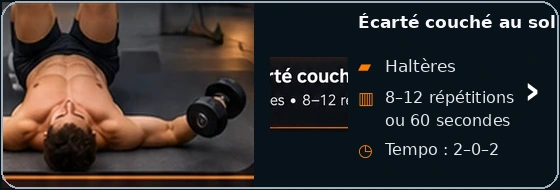
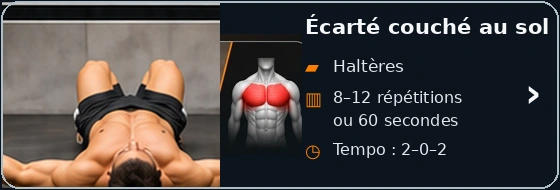
Add files via upload

diff --git a/sw.js b/sw.js
@@ -1,5 +1,5 @@
 const CACHE="ma-bibliotheque-v74";
-const ASSETS=["./","./index.html","./styles.css","./app.js","./data.json","./manifest.json","./icon-192.png","./icon-512.png","./cat-cakes-desserts.webp","./cat-cakes-sales-terrines.webp","./cat-pancakes-gaufres.webp","./cat-pains-pizzas-bruschettas.webp","./cat-quiches-tartes.webp","./cat-pates-a-tartiner.webp","./cat-plats-sales.webp","./cat-recettes-mer.webp","./cat-pates.webp","./cat-salades.webp","./cat-soupes.webp","./cat-mijoteuse.webp","./univers-musculation.webp","./muscu-menu-exercices.png","./muscu-menu-seances.png","./muscu-menu-autre-sport.png","./muscu-menu-historique.png","./exercice-groupe-pectoraux.webp","./exercice-groupe-dos.webp","./exercice-groupe-epaules.webp","./exercice-groupe-biceps.webp","./exercice-groupe-triceps.webp","./exercice-groupe-jambes.webp","./exercice-groupe-abdominaux.webp","./biceps-curl-marteau.webp","./pectoraux-pompes-classiques.webp","./biceps-curl-classique.webp","./biceps-curl-alterne.webp","./biceps-curl-concentration.webp","./biceps-curl-zottman.webp","./biceps-curl-prise-inversee.webp","./biceps-curl-assis.webp","./biceps-curl-unilateral.webp","./biceps-curl-isometrique.webp","./biceps-curl-kettlebell.webp","./seance-haut-corps-v2.png","./seance-bas-corps-v2.png","./seance-corps-complet-v2.png","./seance-abdos-gainage-v2.png","./sport-marche-v3.png","./sport-course-v3.png","./sport-velo-v3.png","./sport-velo-appartement-v3.png","./sport-paddle-v3.png","./recette-r014-gaufres-ig-bas-proteinees.png","./recette-r017-pancakes-proteines-ig-bas.png","./recette-r001-appareil-a-quiche-proteine-ig-bas.png","./recette-r013-gaufres-au-thon.png","./recette-r021-quiche-proteinee-legumes-sans-pate.png","./recette-r022-quiche-proteinee-legumes-thon-sans-pate.png","./recette-r023-quiche-proteinee-poulet-epinards-skyr-sans-pate.png","./recette-r029-pate-brisee-farine-pois-chiches.png","./recette-r031-pancakes-courgettes-parmesan.png","./recette-r019-choco-noisette-saine.png","./recette-r020-choco-noisette-ig-bas.png","./recette-r035-pate-amandes.png","./recette-r036-pate-cacahuetes.png","./recette-r058-veloute-pois-chiches-courgette-poireau-cumin.webp","./recette-r101-salade-poulet-avocat-oeufs.webp","./recette-r102-salade-pommes-terre-thon-oeufs.webp","./recette-r103-salade-cabillaud-avocat-oeufs.webp","./recette-r104-salade-poulet-croustillant.webp","./recette-r105-salade-mediterraneenne-pois-chiches.webp","./recette-r106-salade-pates-poulet-mozzarella.webp","./recette-r107-salade-crevettes-avocat-mangue.webp","./recette-r108-salade-quinoa-legumes-rotis-pois-chiches.webp","./recette-r109-salade-boeuf-grille-avocat.webp","./recette-r110-salade-riz-basmati-thon-oeufs.webp","./recette-r089-lasagnes-volaille-legumes.webp","./recette-r090-lasagnes-blanches-volaille-legumes.webp","./recette-r126-pates-poulet-courgettes-tomates.webp","./recette-r127-pates-pesto-tomates-parmesan.webp","./recette-r128-pates-cremeuses-poulet-champignons-epinards.webp","./recette-r129-pates-poulet-epinards-tomates.webp","./recette-r130-pates-thon-courgette-poivron-olives.webp","./recette-r131-pates-brocoli-burrata-tomates.webp","./recette-r132-pates-lentilles-corail-basilic.webp","./recette-r133-pates-lentilles-corail-tomates-confites-basilic.webp","./recette-r071-bowl-calamars-romaine.webp","./recette-r072-tacos-calamars-romaine.webp","./recette-r073-calamars-orge-legumes-rotis.webp","./recette-r074-risotto-mer-citron-safran-calamars.webp","./recette-r078-crevettes-courgettes-quinoa.webp","./recette-r079-crevettes-pois-chiches-legumes.webp","./recette-r002-cake-chocolat-poire-pepites.png","./recette-r005-cake-marbre-proteine-avoine-amande-lupin.png","./recette-r007-cake-proteine-myrtilles-chocolat.png","./recette-r011-flan-proteine-myrtille-citron.png","./recette-r030-gateau-fromage-blanc.png","./recette-r037-clafoutis-leger-pommes.png","./recette-r075-cake-proteine-ananas-coco-vanille.png","./recette-r076-tiramisu-proteine-cafe-chia.png","./recette-r077-tiramisu-proteine-poire-chocolat-chia.png","./recette-r091-cake-proteine-banane-chocolat.png","./recette-r092-cake-proteine-pomme-cannelle.png","./recette-r093-cake-proteine-banane-coco.png","./recette-r094-cake-proteine-chocolat-compote.png","./recette-r095-cake-proteine-poire-amande.png","./recette-r096-cake-proteine-carotte-cannelle-noix.png","./recette-r097-cake-proteine-banane-fruits-rouges.png","./recette-r098-cake-proteine-pomme-coco.png","./recette-r099-cake-proteine-citron-amande.png","./recette-r100-cake-proteine-banane-cacao-noisette.png","./recette-r003-cake-courgette-poivron-feta.png","./recette-r004-cake-jambon-epinards-chevre.png","./recette-r006-cake-poulet-courgette-parmesan.png","./recette-r008-cake-legumes-du-soleil.png","./recette-r009-cake-thon-courgette-skyr-sans-farine.png","./recette-r010-cake-thon-tomate-olives.png","./recette-r024-terrine-legumes-ete.png","./recette-r025-terrine-fraiche-thon-courgette.png","./recette-r038-cake-epinards-feta.png","./recette-r039-cake-poulet-curry.png","./recette-r040-cake-poivron-mozzarella.png","./recette-r041-cake-champignons-comte.png","./recette-r042-cake-carotte-chevre.png","./recette-r043-cake-thon-olives.png","./recette-r080-flan-courgettes-parmesan-skyr.png","./recette-r081-terrine-poulet-legumes.png","./recette-r082-clafoutis-tomates-courgettes-fromage.png","./recette-r083-terrine-champignons-poireaux-emmental.png","./recette-r084-gateau-pommes-terre-courgettes-chevre.png","./recette-r085-gateau-pommes-terre-chou-fleur-chevre.png","./recette-r026-wok-poulet-pousses-soja.png","./recette-r059-poulet-pommes-terre-brocoli.png","./recette-r060-saumon-riz-legumes.png","./recette-r061-poulet-cremeux-champignons-pates.png","./recette-r062-boeuf-pommes-terre-carottes-mijotes.png","./recette-r063-saucisses-pommes-terre-poivrons.png","./recette-r064-poulet-riz-legumes.png","./recette-r065-crevettes-riz-brocoli.png","./recette-r066-poulet-tex-mex-haricots-mais.png","./recette-r067-gnocchis-poulet-tomates.png","./recette-r068-boulettes-boeuf-orzo-tomates.png","./recette-r069-poulet-citron-orzo-epinards.png","./recette-r070-boeuf-cremeux-champignons-pates.png","./recette-r112-boeuf-bourguignon-mijoteuse-v2.png","./recette-r113-poulet-cremeux-ail-v2.png","./recette-r114-porc-effiloche-sauce-barbecue-v2.png","./recette-r115-ragout-boeuf-legumes-pommes-terre-v2.png","./recette-r116-boulettes-boeuf-sauce-tomate-v2.png","./recette-r117-poulet-champignons-creme-v2.png","./recette-r118-boeuf-oignons-sauce-brune-v2.png","./recette-r119-poulet-citron-herbes-v2.png","./recette-r120-porc-champignons-oignons-v2.png","./recette-r121-chili-boeuf-haricots-blancs-v2.png","./recette-r122-poulet-cremeux-pommes-terre-v3.png","./recette-r123-boeuf-mijote-thym-v2.png","./recette-r124-poulet-barbecue-miel-v3.png","./recette-r125-roti-porc-pommes-terre-v3.png","./recette-r012-fougasse-petit-epeautre-v2.png","./recette-r015-pain-complet-ig-bas-v2.png","./recette-r016-pain-pomme-terre-skyr-v2.png","./recette-r018-pate-pizza-ig-bas-v2.png","./recette-r027-pain-sarrasin-pois-chiches-graines-v2.png","./recette-r028-pain-sarrasin-v2.png","./recette-r032-pizza-express-proteinee-v2.png","./recette-r033-petits-pains-pois-chiches-v2.png","./recette-r034-pain-lentilles-corail-v2.png","./recette-r044-bruschetta-tomate-basilic-v2.png","./recette-r045-bruschetta-mozzarella-tomates-cerises.png","./recette-r046-bruschetta-jambon-cru-roquette.png","./recette-r047-bruschetta-ricotta-miel.png","./recette-r048-bruschetta-champignons-ail.png","./recette-r049-bruschetta-poivron-roti.png","./recette-r050-bruschetta-saumon-fromage-frais.png","./recette-r051-bruschetta-avocat-citron-vert.png","./recette-r052-bruschetta-thon-olives.png","./recette-r053-bruschetta-chevre-figues.png","./recette-r054-bruschetta-pesto-tomates-sechees.png","./recette-r055-bruschetta-burrata-pesto.png","./recette-r056-bruschetta-poulet-tomates-sechees.png","./recette-r057-bruschetta-crevettes-avocat.png","./recette-r086-pain-lentilles-corail.png","./recette-r087-pain-lentilles-avoine-lupin.png","./recette-r088-pain-nordique-graines.png","./recette-r111-pain-100-sarrasin.png"];
+const ASSETS=["./","./index.html","./styles.css","./app.js","./data.json","./manifest.json","./icon-192.png","./icon-512.png","./cat-cakes-desserts.webp","./cat-cakes-sales-terrines.webp","./cat-pancakes-gaufres.webp","./cat-pains-pizzas-bruschettas.webp","./cat-quiches-tartes.webp","./cat-pates-a-tartiner.webp","./cat-plats-sales.webp","./cat-recettes-mer.webp","./cat-pates.webp","./cat-salades.webp","./cat-soupes.webp","./cat-mijoteuse.webp","./univers-musculation.webp","./muscu-menu-exercices.png","./muscu-menu-seances.png","./muscu-menu-autre-sport.png","./muscu-menu-historique.png","./exercice-groupe-pectoraux.webp","./exercice-groupe-dos.webp","./exercice-groupe-epaules.webp","./exercice-groupe-biceps.webp","./exercice-groupe-triceps.webp","./exercice-groupe-jambes.webp","./exercice-groupe-abdominaux.webp","./biceps-curl-marteau.webp","./pectoraux-squeeze-press-halteres.webp","./pectoraux-pompes-tempo-lent.webp","./pectoraux-pompes-prise-large.webp","./pectoraux-presse-unilaterale-sol.webp","./pectoraux-pullover-haltere.webp","./pectoraux-ecarte-sol-halteres.webp","./pectoraux-developpe-sol-halteres.webp","./pectoraux-pompes-declinees.webp","./pectoraux-pompes-inclinees.webp","./pectoraux-pompes-classiques.webp","./biceps-curl-classique.webp","./biceps-curl-alterne.webp","./biceps-curl-concentration.webp","./biceps-curl-zottman.webp","./biceps-curl-prise-inversee.webp","./biceps-curl-assis.webp","./biceps-curl-unilateral.webp","./biceps-curl-isometrique.webp","./biceps-curl-kettlebell.webp","./seance-haut-corps-v2.png","./seance-bas-corps-v2.png","./seance-corps-complet-v2.png","./seance-abdos-gainage-v2.png","./sport-marche-v3.png","./sport-course-v3.png","./sport-velo-v3.png","./sport-velo-appartement-v3.png","./sport-paddle-v3.png","./recette-r014-gaufres-ig-bas-proteinees.png","./recette-r017-pancakes-proteines-ig-bas.png","./recette-r001-appareil-a-quiche-proteine-ig-bas.png","./recette-r013-gaufres-au-thon.png","./recette-r021-quiche-proteinee-legumes-sans-pate.png","./recette-r022-quiche-proteinee-legumes-thon-sans-pate.png","./recette-r023-quiche-proteinee-poulet-epinards-skyr-sans-pate.png","./recette-r029-pate-brisee-farine-pois-chiches.png","./recette-r031-pancakes-courgettes-parmesan.png","./recette-r019-choco-noisette-saine.png","./recette-r020-choco-noisette-ig-bas.png","./recette-r035-pate-amandes.png","./recette-r036-pate-cacahuetes.png","./recette-r058-veloute-pois-chiches-courgette-poireau-cumin.webp","./recette-r101-salade-poulet-avocat-oeufs.webp","./recette-r102-salade-pommes-terre-thon-oeufs.webp","./recette-r103-salade-cabillaud-avocat-oeufs.webp","./recette-r104-salade-poulet-croustillant.webp","./recette-r105-salade-mediterraneenne-pois-chiches.webp","./recette-r106-salade-pates-poulet-mozzarella.webp","./recette-r107-salade-crevettes-avocat-mangue.webp","./recette-r108-salade-quinoa-legumes-rotis-pois-chiches.webp","./recette-r109-salade-boeuf-grille-avocat.webp","./recette-r110-salade-riz-basmati-thon-oeufs.webp","./recette-r089-lasagnes-volaille-legumes.webp","./recette-r090-lasagnes-blanches-volaille-legumes.webp","./recette-r126-pates-poulet-courgettes-tomates.webp","./recette-r127-pates-pesto-tomates-parmesan.webp","./recette-r128-pates-cremeuses-poulet-champignons-epinards.webp","./recette-r129-pates-poulet-epinards-tomates.webp","./recette-r130-pates-thon-courgette-poivron-olives.webp","./recette-r131-pates-brocoli-burrata-tomates.webp","./recette-r132-pates-lentilles-corail-basilic.webp","./recette-r133-pates-lentilles-corail-tomates-confites-basilic.webp","./recette-r071-bowl-calamars-romaine.webp","./recette-r072-tacos-calamars-romaine.webp","./recette-r073-calamars-orge-legumes-rotis.webp","./recette-r074-risotto-mer-citron-safran-calamars.webp","./recette-r078-crevettes-courgettes-quinoa.webp","./recette-r079-crevettes-pois-chiches-legumes.webp","./recette-r002-cake-chocolat-poire-pepites.png","./recette-r005-cake-marbre-proteine-avoine-amande-lupin.png","./recette-r007-cake-proteine-myrtilles-chocolat.png","./recette-r011-flan-proteine-myrtille-citron.png","./recette-r030-gateau-fromage-blanc.png","./recette-r037-clafoutis-leger-pommes.png","./recette-r075-cake-proteine-ananas-coco-vanille.png","./recette-r076-tiramisu-proteine-cafe-chia.png","./recette-r077-tiramisu-proteine-poire-chocolat-chia.png","./recette-r091-cake-proteine-banane-chocolat.png","./recette-r092-cake-proteine-pomme-cannelle.png","./recette-r093-cake-proteine-banane-coco.png","./recette-r094-cake-proteine-chocolat-compote.png","./recette-r095-cake-proteine-poire-amande.png","./recette-r096-cake-proteine-carotte-cannelle-noix.png","./recette-r097-cake-proteine-banane-fruits-rouges.png","./recette-r098-cake-proteine-pomme-coco.png","./recette-r099-cake-proteine-citron-amande.png","./recette-r100-cake-proteine-banane-cacao-noisette.png","./recette-r003-cake-courgette-poivron-feta.png","./recette-r004-cake-jambon-epinards-chevre.png","./recette-r006-cake-poulet-courgette-parmesan.png","./recette-r008-cake-legumes-du-soleil.png","./recette-r009-cake-thon-courgette-skyr-sans-farine.png","./recette-r010-cake-thon-tomate-olives.png","./recette-r024-terrine-legumes-ete.png","./recette-r025-terrine-fraiche-thon-courgette.png","./recette-r038-cake-epinards-feta.png","./recette-r039-cake-poulet-curry.png","./recette-r040-cake-poivron-mozzarella.png","./recette-r041-cake-champignons-comte.png","./recette-r042-cake-carotte-chevre.png","./recette-r043-cake-thon-olives.png","./recette-r080-flan-courgettes-parmesan-skyr.png","./recette-r081-terrine-poulet-legumes.png","./recette-r082-clafoutis-tomates-courgettes-fromage.png","./recette-r083-terrine-champignons-poireaux-emmental.png","./recette-r084-gateau-pommes-terre-courgettes-chevre.png","./recette-r085-gateau-pommes-terre-chou-fleur-chevre.png","./recette-r026-wok-poulet-pousses-soja.png","./recette-r059-poulet-pommes-terre-brocoli.png","./recette-r060-saumon-riz-legumes.png","./recette-r061-poulet-cremeux-champignons-pates.png","./recette-r062-boeuf-pommes-terre-carottes-mijotes.png","./recette-r063-saucisses-pommes-terre-poivrons.png","./recette-r064-poulet-riz-legumes.png","./recette-r065-crevettes-riz-brocoli.png","./recette-r066-poulet-tex-mex-haricots-mais.png","./recette-r067-gnocchis-poulet-tomates.png","./recette-r068-boulettes-boeuf-orzo-tomates.png","./recette-r069-poulet-citron-orzo-epinards.png","./recette-r070-boeuf-cremeux-champignons-pates.png","./recette-r112-boeuf-bourguignon-mijoteuse-v2.png","./recette-r113-poulet-cremeux-ail-v2.png","./recette-r114-porc-effiloche-sauce-barbecue-v2.png","./recette-r115-ragout-boeuf-legumes-pommes-terre-v2.png","./recette-r116-boulettes-boeuf-sauce-tomate-v2.png","./recette-r117-poulet-champignons-creme-v2.png","./recette-r118-boeuf-oignons-sauce-brune-v2.png","./recette-r119-poulet-citron-herbes-v2.png","./recette-r120-porc-champignons-oignons-v2.png","./recette-r121-chili-boeuf-haricots-blancs-v2.png","./recette-r122-poulet-cremeux-pommes-terre-v3.png","./recette-r123-boeuf-mijote-thym-v2.png","./recette-r124-poulet-barbecue-miel-v3.png","./recette-r125-roti-porc-pommes-terre-v3.png","./recette-r012-fougasse-petit-epeautre-v2.png","./recette-r015-pain-complet-ig-bas-v2.png","./recette-r016-pain-pomme-terre-skyr-v2.png","./recette-r018-pate-pizza-ig-bas-v2.png","./recette-r027-pain-sarrasin-pois-chiches-graines-v2.png","./recette-r028-pain-sarrasin-v2.png","./recette-r032-pizza-express-proteinee-v2.png","./recette-r033-petits-pains-pois-chiches-v2.png","./recette-r034-pain-lentilles-corail-v2.png","./recette-r044-bruschetta-tomate-basilic-v2.png","./recette-r045-bruschetta-mozzarella-tomates-cerises.png","./recette-r046-bruschetta-jambon-cru-roquette.png","./recette-r047-bruschetta-ricotta-miel.png","./recette-r048-bruschetta-champignons-ail.png","./recette-r049-bruschetta-poivron-roti.png","./recette-r050-bruschetta-saumon-fromage-frais.png","./recette-r051-bruschetta-avocat-citron-vert.png","./recette-r052-bruschetta-thon-olives.png","./recette-r053-bruschetta-chevre-figues.png","./recette-r054-bruschetta-pesto-tomates-sechees.png","./recette-r055-bruschetta-burrata-pesto.png","./recette-r056-bruschetta-poulet-tomates-sechees.png","./recette-r057-bruschetta-crevettes-avocat.png","./recette-r086-pain-lentilles-corail.png","./recette-r087-pain-lentilles-avoine-lupin.png","./recette-r088-pain-nordique-graines.png","./recette-r111-pain-100-sarrasin.png"];
 
 self.addEventListener("install", event => {
   self.skipWaiting();

diff --git a/app.js b/app.js
@@ -337,6 +337,18 @@ function renderMuscuExercises(){
 }
 
 function renderMuscuPectoraux(){
+  const exercises=[
+    ["pompes-classiques","Pompes classiques"],
+    ["pompes-inclinees","Pompes inclinées"],
+    ["pompes-declinees","Pompes déclinées"],
+    ["developpe-sol-halteres","Développé couché au sol"],
+    ["ecarte-sol-halteres","Écarté couché au sol"],
+    ["pullover-haltere","Pullover haltère"],
+    ["presse-unilaterale-sol","Presse poitrine unilatérale"],
+    ["pompes-prise-large","Pompes prise large"],
+    ["pompes-tempo-lent","Pompes tempo lent"],
+    ["squeeze-press-halteres","Squeeze press haltères"]
+  ];
   main.innerHTML=`
     <section class="muscu-biceps-v1" aria-label="Exercices pectoraux">
       <button class="muscu-back-pill muscu-biceps-back" id="muscuPectorauxBack" aria-label="Retour aux groupes musculaires">
@@ -347,19 +359,18 @@ function renderMuscuPectoraux(){
         <div>
           <div class="muscu-biceps-kicker">EXERCICES</div>
           <h2>Pectoraux</h2>
-          <p>Test de la première carte au gabarit Biceps</p>
+          <p>10 exercices pour développer et renforcer les pectoraux à la maison</p>
         </div>
       </div>
       <div class="muscu-biceps-list">
-        <button class="muscu-biceps-card" id="pectorauxPompesClassiques" aria-label="Ouvrir Pompes classiques">
-          <img src="./pectoraux-pompes-classiques.webp" alt="Pompes classiques">
-        </button>
+        ${exercises.map(([key,label])=>`<button class="muscu-biceps-card" data-pectoraux-exercise="${key}" aria-label="Ouvrir ${label}"><img src="./pectoraux-${key}.webp" alt="${label}"></button>`).join("")}
       </div>
     </section>`;
   document.getElementById("muscuPectorauxBack")?.addEventListener("click",()=>{state.view="muscu-exercises";render();});
-  document.getElementById("pectorauxPompesClassiques")?.addEventListener("click",()=>{
-    alert("Carte Pompes classiques validée : la fiche détaillée sera branchée après validation du rendu.");
-  });
+  document.querySelectorAll("[data-pectoraux-exercise]").forEach(btn=>btn.addEventListener("click",()=>{
+    const label=btn.getAttribute("aria-label")?.replace("Ouvrir ","") || "cet exercice";
+    alert(`La fiche détaillée ${label} sera ajoutée après validation de la liste complète.`);
+  }));
 }
 
 function renderMuscuBiceps(){
